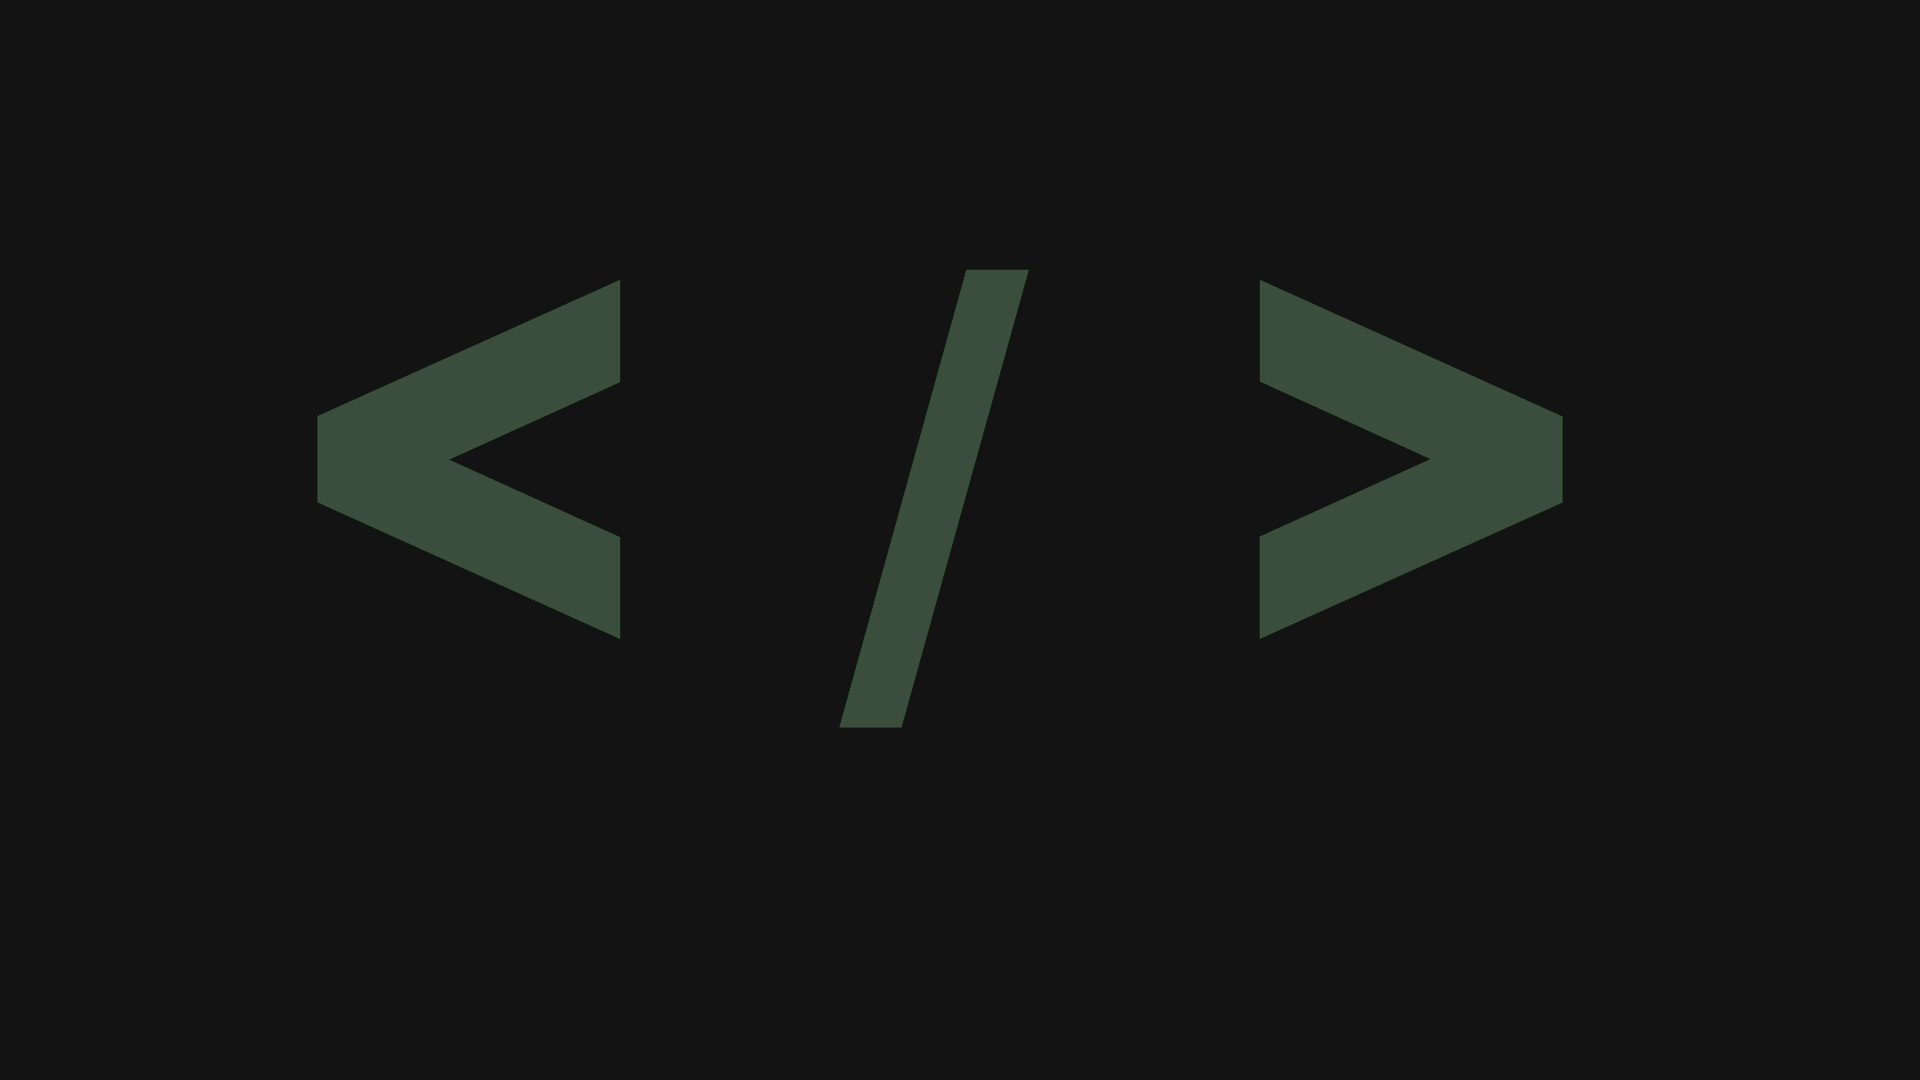
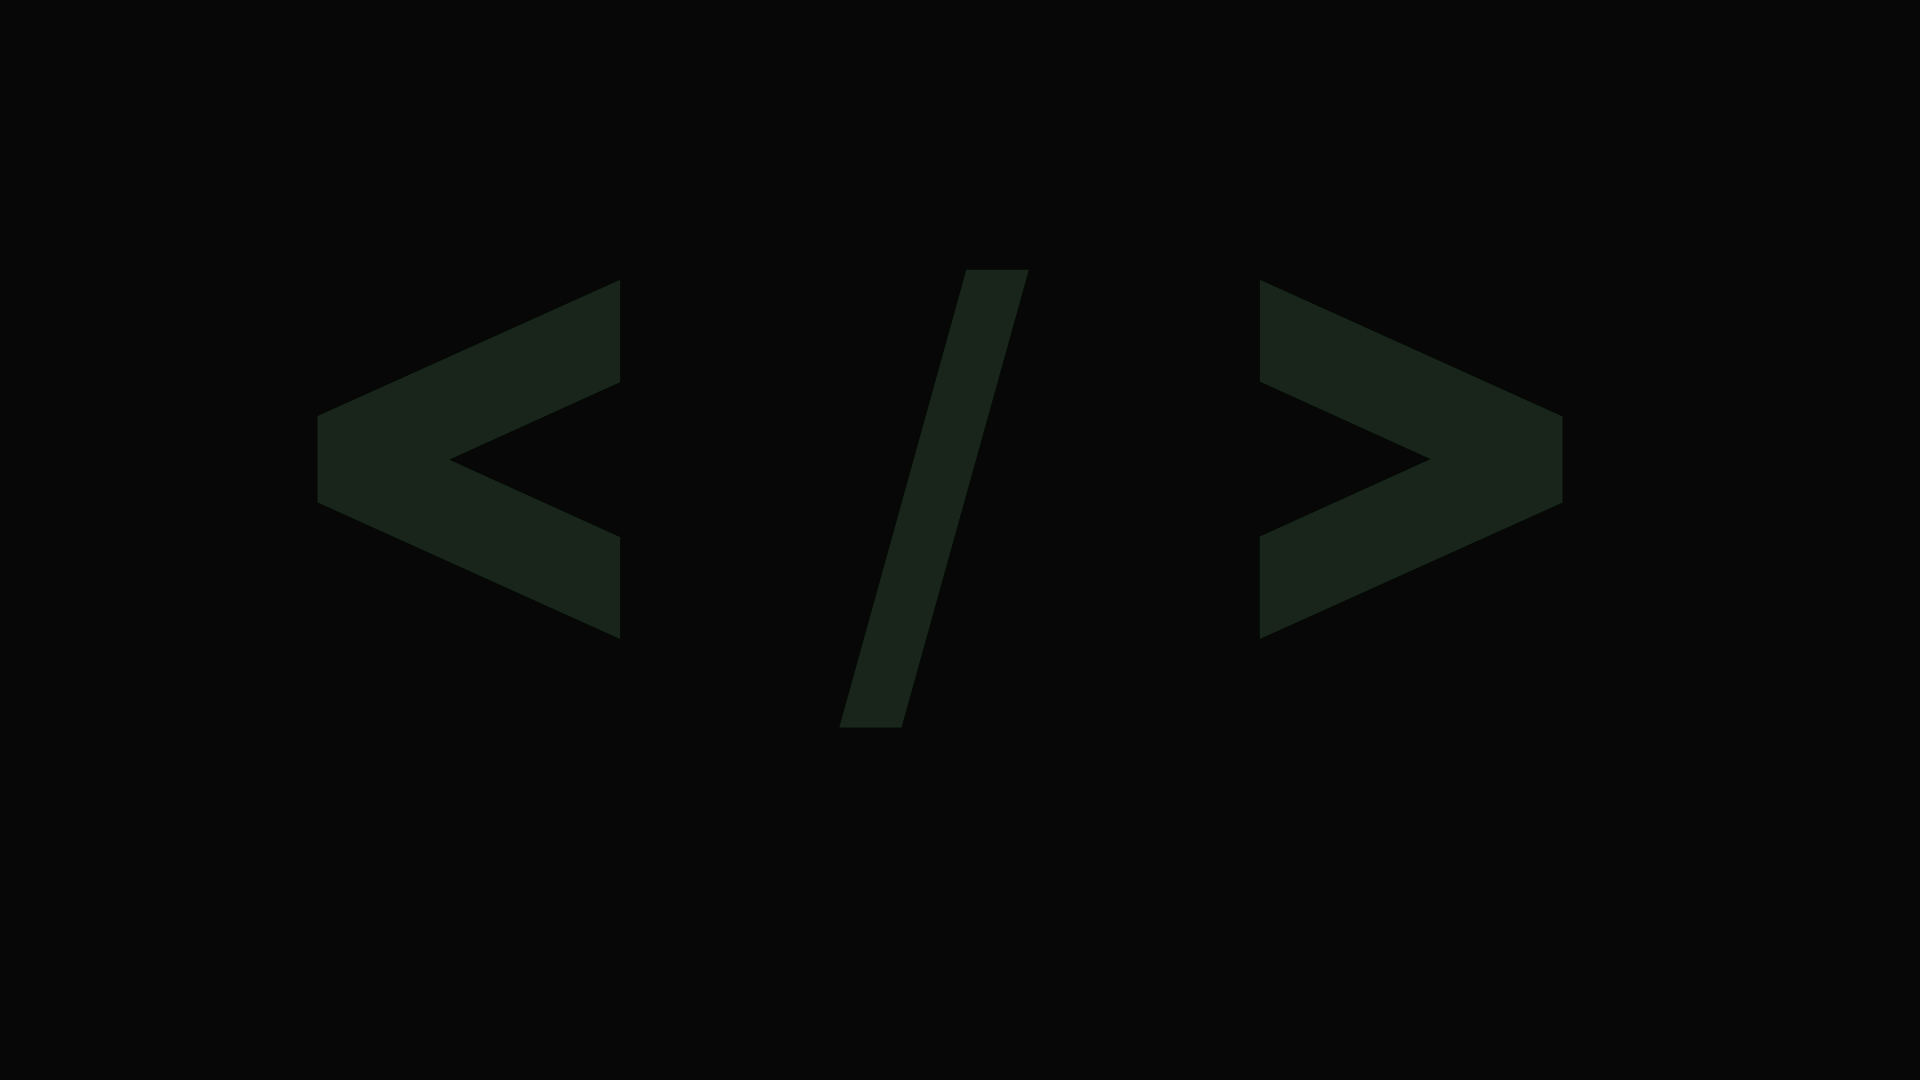
add fonts and chamge design

Changed region(s): [[0.1562, 0.2444, 0.3438, 0.5806], [0.6562, 0.2444, 0.8125, 0.5806], [0.4375, 0.2444, 0.5312, 0.6722]]

diff --git a/src/App.js b/src/App.js
@@ -30,51 +30,54 @@ function App() {
 	}
 
 	return (
-		<Styled.Wrapper scroll={showModal}>
-			<Header onShowProjects={showProjectsHandler} onCloseProjects={closeProjectsHandler}/>
-			{showModal && <ContactModal show={showModalHandler} close={closeModalHandler} />}
-			{projects ?
-				<Projects />
-				:
-				<div>
-					<Aboutme>
-						<p>
-							Hey, my name is Daviti Sozashvili and you can call me David
-						</p>
-						<p>
-							feel free to <span onClick={showModalHandler}>contact</span> me...
-						</p>
-					</Aboutme>
-					<Avatar>
-						<img src={avatar} />
-					</Avatar>
-				</div>}
-		</Styled.Wrapper>
+		<Styled.ContainerFluid>
+			<Styled.Wrapper scroll={showModal}>
+				<Header onShowProjects={showProjectsHandler} onCloseProjects={closeProjectsHandler} />
+				{showModal && <ContactModal show={showModalHandler} close={closeModalHandler} />}
+				{projects ?
+					<Projects />
+					:
+					<div>
+						<Aboutme>
+							<p>
+								Hey, my name is Daviti Sozashvili and you can call me David
+							</p>
+							<p>
+								feel free to <span onClick={showModalHandler}>contact</span> me...
+							</p>
+						</Aboutme>
+						<Avatar>
+							<img src={avatar} />
+						</Avatar>
+					</div>}
+			</Styled.Wrapper>
+		</Styled.ContainerFluid>
 	);
 }
 
 export default App;
 
 const Aboutme = styled.div`
-	color: #606887;
+	color: #F5D5AE;
 	display: flex;
 	flex-direction: column;
 	align-items: center;
+	user-select: none;
 	/* padding: 100px; */
 	p:first-child {
 		max-width: 1000px;
 		text-align: center;
 		font-size: 52px;
-		font-weight: bold;
+		/* font-weight: bold; */
 		padding: 10px;
-		text-shadow: 3px 4px 7px rgba(20,20,20,0.3);
+		/* text-shadow: 3px 3px 3px rgba(255,255,255,0.3); */
 	}
 	p:last-child {
 		max-width: 1000px;
 		text-align: center;
 		font-size: 32px;
 		>span {
-			font-weight: bold;
+			/* font-weight: bold; */
 			color: #25AAE1;
 			cursor: pointer;
 		}

diff --git a/src/componenets/contactModal/ContactModal.js b/src/componenets/contactModal/ContactModal.js
@@ -10,11 +10,11 @@ export function ContactModal({ show, close }) {
             <Modal>
                 <div>
                     <div>Phone</div>
-                    <a href=''>+995 598 314 917</a>
+                    <span>+995 598 314 917</span>
                 </div>
                 <div>
                     <div>E-mail</div>
-                    <a href=''>davidsozashvili@gmail.com</a>
+                    <span>davidsozashvili@gmail.com</span>
                 </div>
                 <div>
                     <div>LinkedIn</div>
@@ -59,18 +59,19 @@ const Modal = styled.div`
     flex-direction: column;
     align-items: center;
     gap: 20px;
-    font-weight: bold;
     box-shadow: rgba(0, 0, 0, 0.25) 0px 54px 55px, rgba(0, 0, 0, 0.12) 0px -12px 30px, rgba(0, 0, 0, 0.12) 0px 4px 6px, rgba(0, 0, 0, 0.17) 0px 12px 13px, rgba(0, 0, 0, 0.09) 0px -3px 5px;
+    font-family: 'kanit', sans-serif;
 
     div {
         text-align: center;
         color: #606887;
     }
-    a {
+    a, span {
         display: inline-block;
         margin-top: 20px;
         /* background-color: #65C9FF; */
         padding: 5px 15px;
         border-radius: 7px;
+        color: #5A1F8C;
     }
 `

diff --git a/public/index.html b/public/index.html
@@ -15,6 +15,16 @@
       user's mobile device or desktop. See https://developers.google.com/web/fundamentals/web-app-manifest/
     -->
     <link rel="manifest" href="%PUBLIC_URL%/manifest.json" />
+    <link rel="preconnect" href="https://fonts.googleapis.com" />
+    <link rel="preconnect" href="https://fonts.gstatic.com" crossorigin />
+    <link rel="preconnect" href="https://fonts.googleapis.com" />
+    <link rel="preconnect" href="https://fonts.gstatic.com" crossorigin />
+    <link rel="preconnect" href="https://fonts.googleapis.com" />
+    <link rel="preconnect" href="https://fonts.gstatic.com" crossorigin />
+    <link
+      href="https://fonts.googleapis.com/css2?family=Kanit:wght@200;300;400;500&family=Open+Sans:ital,wght@0,400;0,600;1,400&family=Ubuntu:wght@300;400;500&display=swap"
+      rel="stylesheet"
+    />
     <!--
       Notice the use of %PUBLIC_URL% in the tags above.
       It will be replaced with the URL of the `public` folder during the build.

diff --git a/src/componenets/header/styled.js b/src/componenets/header/styled.js
@@ -6,6 +6,7 @@ export const Wrapper = styled.div`
     justify-content: space-between;
     align-items: center;
     padding: 35px 0;
+    font-family: 'kanit', sans-serif;
 `
 
 export const Logo = styled.div`
@@ -23,8 +24,9 @@ export const Contact = styled.div`
         font-size: 24px;
         cursor: pointer;
         user-select: none;
-        color: #606887;
+        color: #F3E8FF;
     }
+   
     button {
         font-size: 22px;
         padding: 10px 25px;
@@ -34,6 +36,8 @@ export const Contact = styled.div`
         border: 3px solid #3458eb;
         cursor: pointer;
         transition: background-color 0.3s;
+        font-family: 'kanit', sans-serif;
+
         &:hover {
             color: #fff;
             background-color: #3458eb;

diff --git a/src/styled.js b/src/styled.js
@@ -1,6 +1,10 @@
 
 import styled from 'styled-components';
-import clipart from "./assets/wallhaven.png"
+import clipart from "./assets/wallhaven.png";
+
+export const ContainerFluid = styled.div`
+ background-color: #070707;
+`
 
 export const Wrapper = styled.div`
     max-width: 1650px;
@@ -10,6 +14,7 @@ export const Wrapper = styled.div`
     overflow: hidden;
     background-image: url(${clipart});
     background-repeat: no-repeat;
-    /* background-position: center; */
+    background-position: center;
     background-size: cover;
+    font-family: 'kanit', sans-serif;
 `

diff --git a/src/componenets/projects/SingleProject.js b/src/componenets/projects/SingleProject.js
@@ -22,9 +22,15 @@ const Container = styled.div`
     padding: 40px 40px;
     text-align: center;
     font-size: 22px;
-    background-color: #65C9FF;
+    background-color: #F5D5AE;
+    font-family: 'kanit', sans-serif;
+    box-shadow: 0px 1px 2px 0px rgba(245, 213, 174 ,0.7),
+            1px 2px 4px 0px rgba(245, 213, 174 ,0.7),
+            2px 4px 8px 0px rgba(245, 213, 174 ,0.7),
+            2px 4px 16px 0px rgba(245, 213, 174 ,0.7);
+    
     div {
-        font-weight: bold;
+        /* font-weight: bold; */
     }
     img {
         height: 100px;
